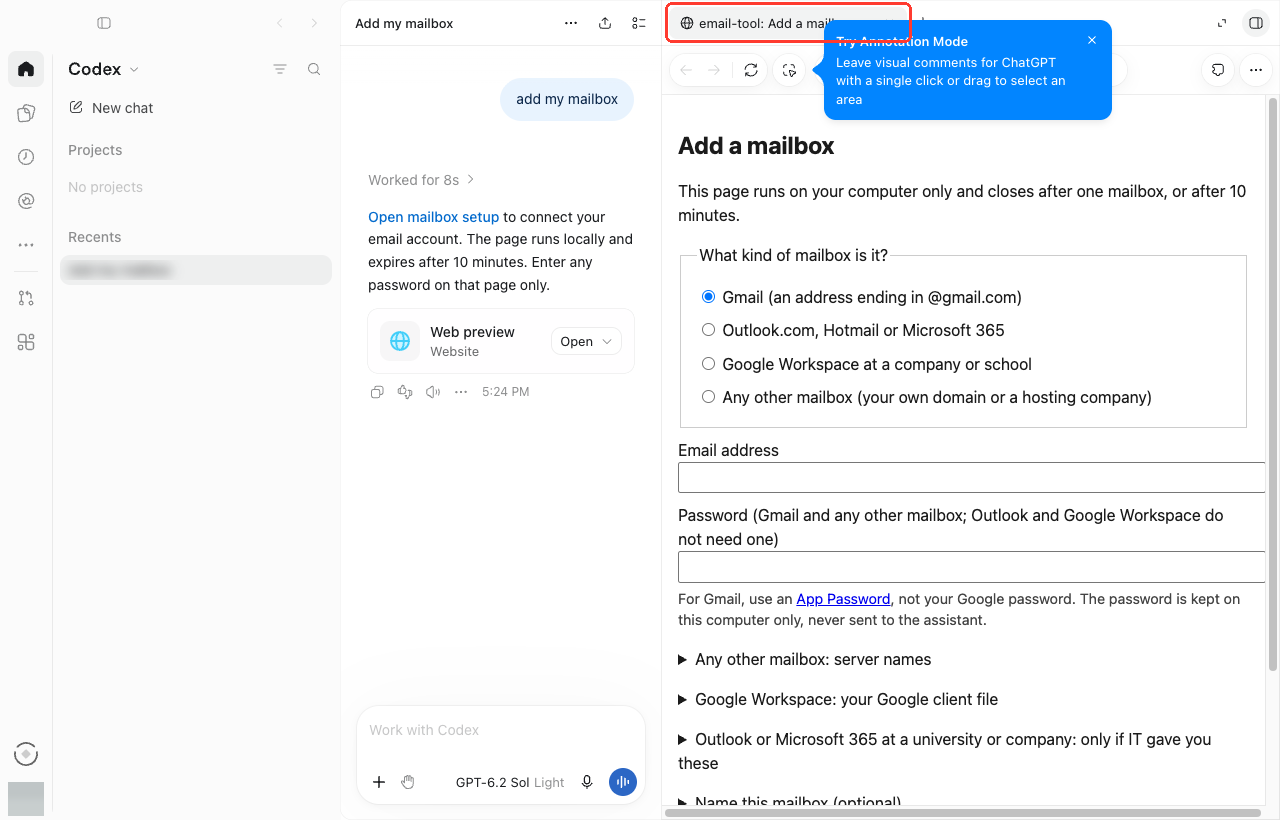
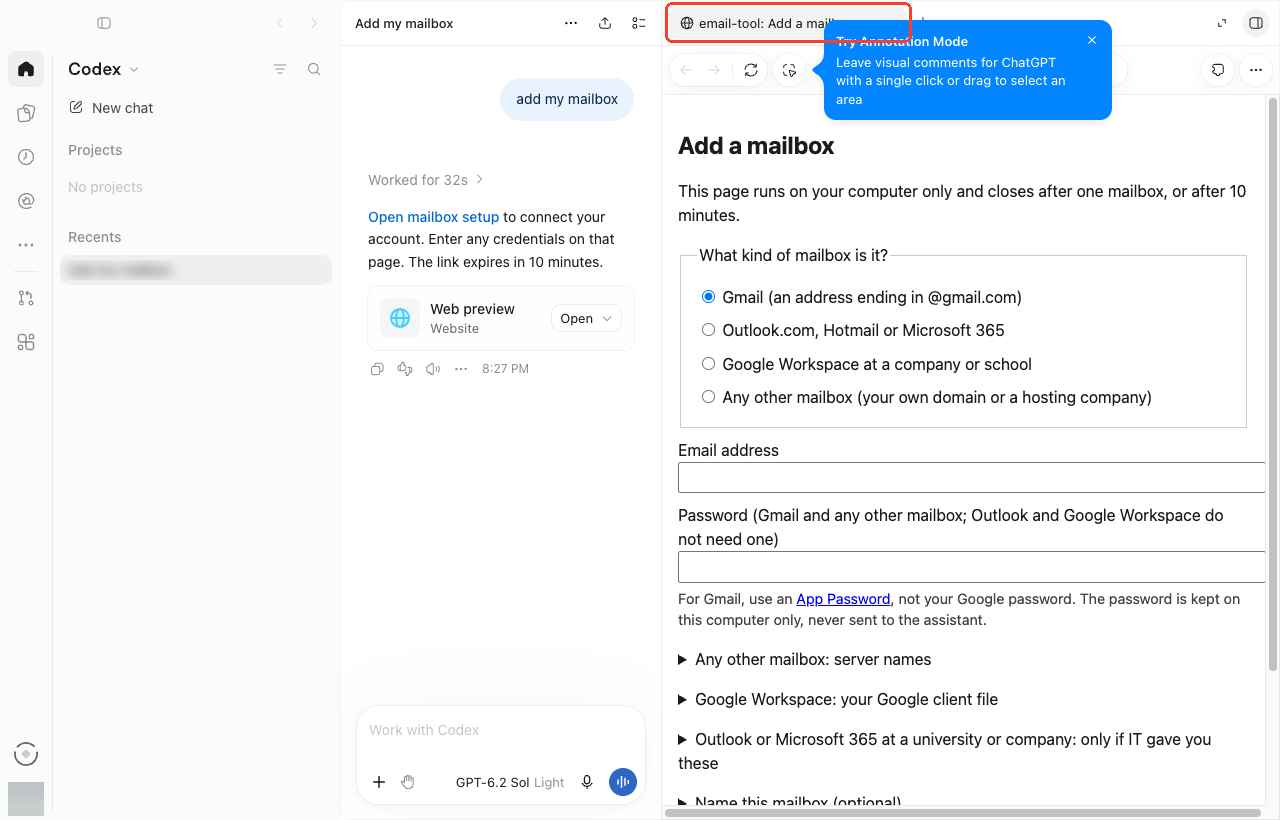
Start here: Windows setup page pictures, full form examples, no Deny step on macOS
From the run of main on Windows and macOS after #157: the setup page shows inside
ChatGPT on Windows too, the form examples reach the Add mailbox button, and
ChatGPT Work on macOS gives the link directly.

Fixes #163

Changed region(s): [[0.2812, 0.2744, 0.5, 0.4878], [0.4375, 0.3659, 0.4688, 0.4268], [0.3438, 0.2134, 0.375, 0.2439]]

diff --git a/docs/start.md b/docs/start.md
@@ -82,6 +82,8 @@ Three steps, for any AI app. No terminal.
 
         3. The **Add a mailbox** page opens in ChatGPT.
 
+            ![The Add a mailbox page open in a tab inside ChatGPT](assets/screens/chatgpt-windows/codex-page.png)
+
     === "Work"
 
         1. Select the Home icon, and then select **Work**. In the message box, type
@@ -95,6 +97,8 @@ Three steps, for any AI app. No terminal.
 
         3. The **Add a mailbox** page opens in ChatGPT.
 
+            ![The Add a mailbox page open in a tab inside ChatGPT](assets/screens/chatgpt-windows/work-page.png)
+
     **Fill in the page**
 
     This example is for a mailbox at your own domain or a hosting company. For Gmail, Outlook and
@@ -107,9 +111,7 @@ Three steps, for any AI app. No terminal.
        **SMTP server**.
     5. Select **Add mailbox**. When the page says **Mailbox added**, go back to ChatGPT.
 
-    The page is the same on every system; this picture is from macOS.
-
-    ![The Add a mailbox form with example values, and each box to fill in highlighted](assets/screens/chatgpt-mac/form-example.png)
+    ![The Add a mailbox form with example values, and each box to fill in highlighted](assets/screens/chatgpt-windows/form-example.png)
 
 === "ChatGPT desktop on macOS"
 
@@ -190,11 +192,6 @@ Three steps, for any AI app. No terminal.
 
             ![add my mailbox typed in the Work message box, with the Work tab highlighted](assets/screens/chatgpt-mac/work-type.png)
 
-            If ChatGPT asks **Allow ChatGPT to access 127.0.0.1 with the cloud browser?**, select
-            **Deny**, and then type **give me the setup link**. The setup page is where you type your
-            password, so only you should open it.
-
-            ![ChatGPT asks to open the setup page itself, with Deny highlighted](assets/screens/chatgpt-mac/work-cloud-browser.png)
 
         2. In the reply, select the link to the setup page. The link lasts 10 minutes.
 

diff --git a/CHANGELOG.md b/CHANGELOG.md
@@ -6,6 +6,8 @@
 - Start here has steps with screenshots for ChatGPT desktop on Linux, in Codex and in Work (#148).
 - Start here has steps with screenshots for ChatGPT desktop on Windows and macOS too, in Codex and
   in Work, checked on both systems.
+- Start here shows the setup page inside ChatGPT on Windows too, and full form examples; the macOS
+  Work steps no longer need the Deny step (#163).
 - A reply quotes the earlier message below the new text, as mail programs do: `> ` lines in the
   plain part and a quote block in the HTML part, with the earlier quotes kept. The parent's own
   HTML is never copied, only its text. `quote_parent=false` sends the new text alone (#154).
